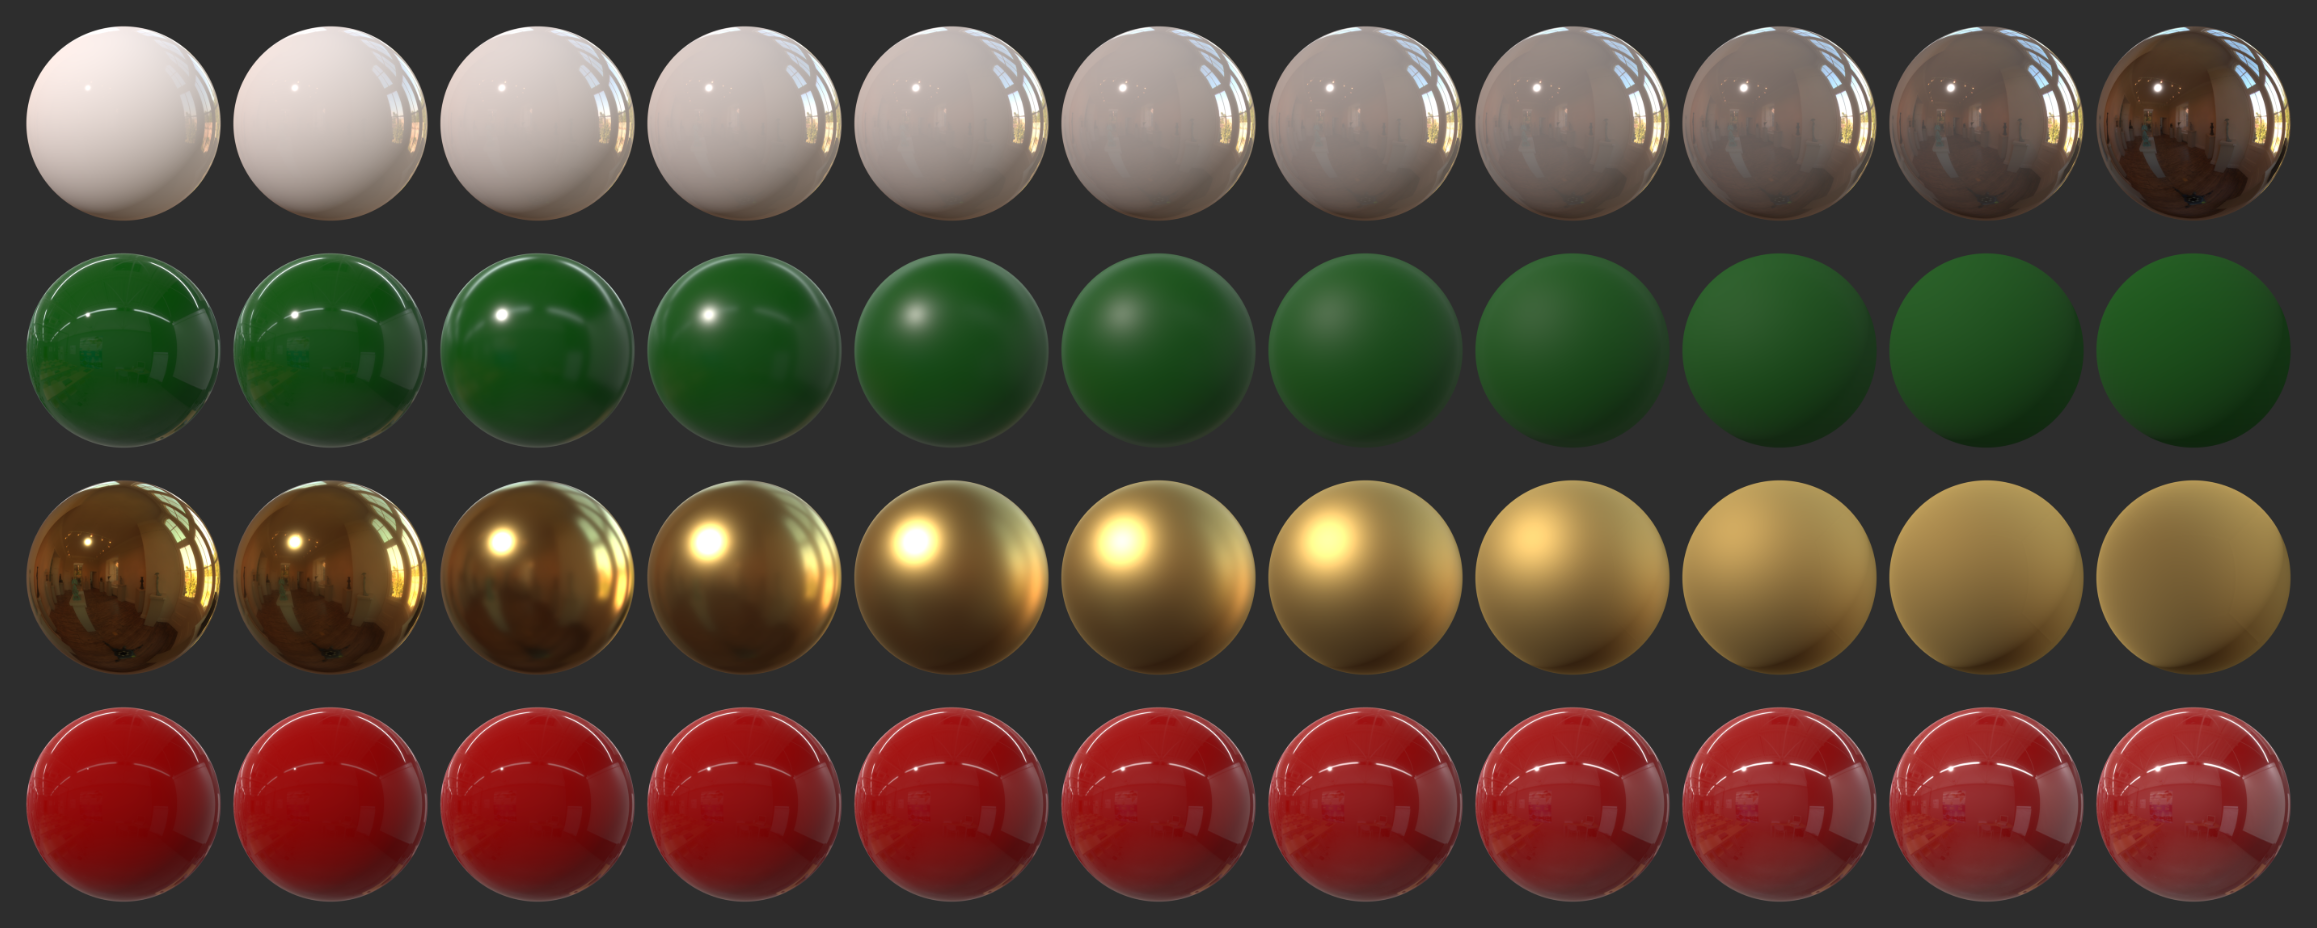
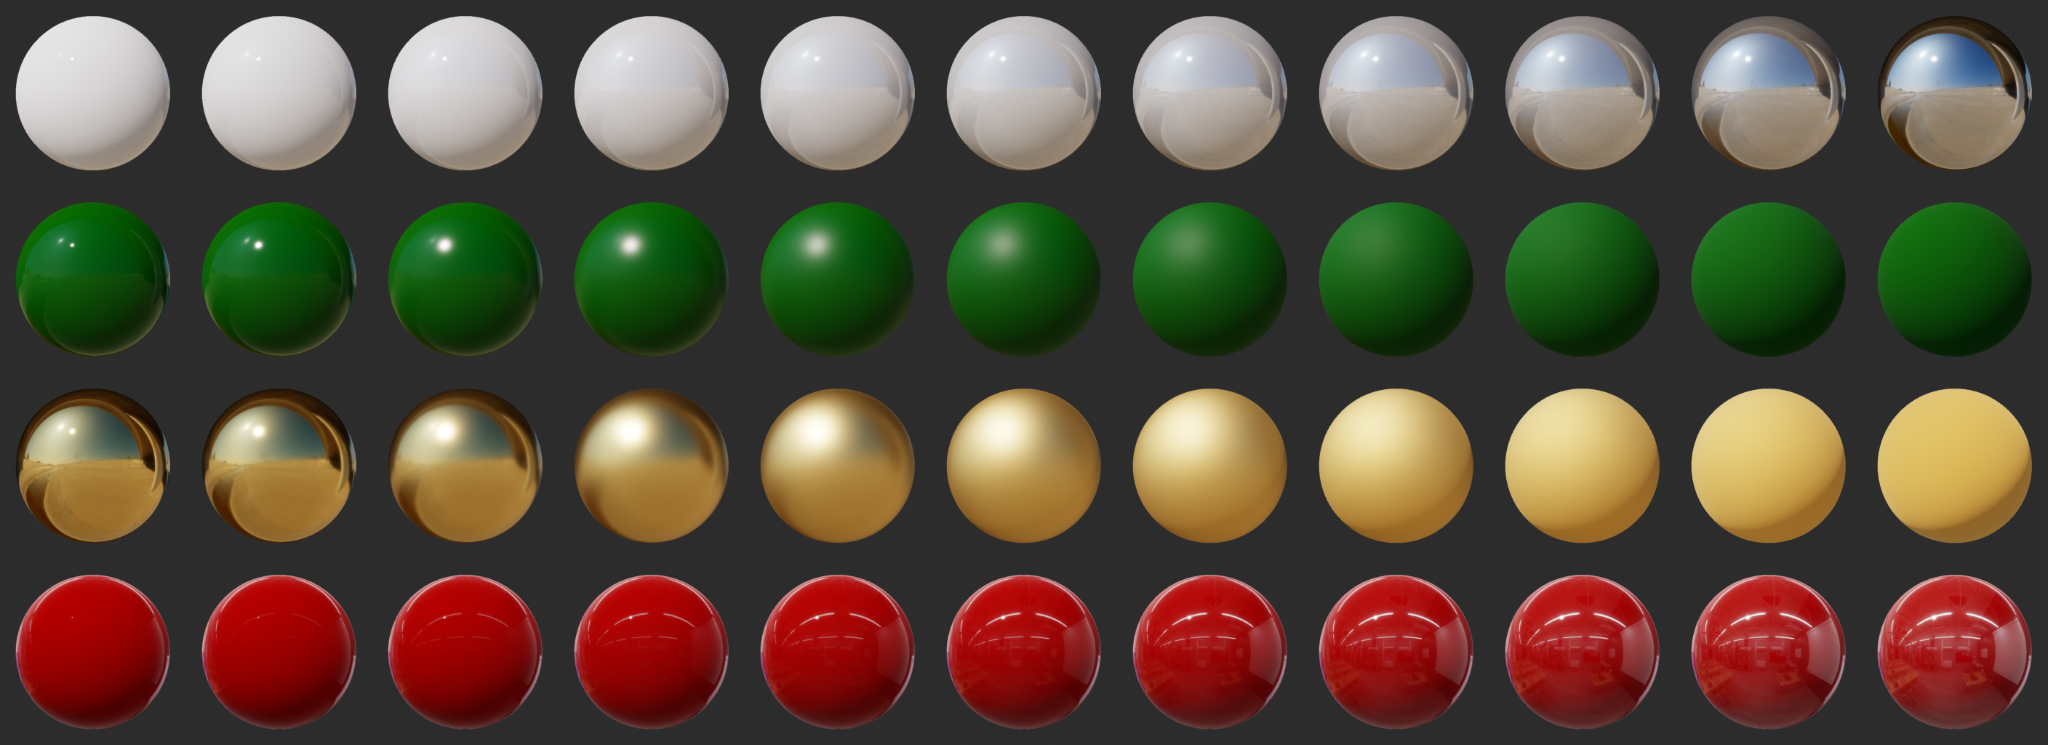
Update images for the documentation

diff --git a/samples/frame_generator.cpp b/samples/frame_generator.cpp
@@ -28,12 +28,14 @@
 #include <utils/Path.h>
 
 #include <filament/driver/PixelBufferDescriptor.h>
+#include <filament/Color.h>
 #include <filament/Engine.h>
 #include <filament/LightManager.h>
 #include <filament/Material.h>
 #include <filament/MaterialInstance.h>
 #include <filament/RenderableManager.h>
 #include <filament/Scene.h>
+#include <filament/Skybox.h>
 #include <filament/TransformManager.h>
 #include <filament/View.h>
 
@@ -69,11 +71,13 @@ static std::vector<char> g_materialBuffer;
 static Path g_materialPath;
 static Path g_paramsPath;
 static bool g_lightOn = false;
+static bool g_skyboxOn = true;
 static int g_materialVariantCount = 1;
 static int g_currentFrame = 0;
 static std::atomic_int g_savedFrames(0);
 static std::vector<Param> g_parameters;
 static std::string g_prefix;
+static uint32_t g_clearColor = 0x000000;
 
 std::unique_ptr<MeshAssimp> g_meshSet;
 static std::map<std::string, MaterialInstance*> g_meshMaterialInstances;
@@ -119,6 +123,10 @@ static void printUsage(char* name) {
             "       Turn on the directional light\n\n"
             "   --prefix=[prefix], -x [prefix]\n"
             "       Prefix of the output files\n\n"
+            "   --skybox-off, -y\n"
+            "       Hide the skybox, showing the clear color\n\n"
+            "   --clear-color=0xRRGGBB, -b 0xRRGGBB\n"
+            "       Set the clear color\n\n"
     );
     const std::string from("SAMPLE_FRAME_GENERATOR");
     for (size_t pos = usage.find(from); pos != std::string::npos; pos = usage.find(from, pos)) {
@@ -128,17 +136,19 @@ static void printUsage(char* name) {
 }
 
 static int handleCommandLineArgments(int argc, char* argv[], Config* config) {
-    static constexpr const char* OPTSTR = "ha:s:li:m:c:p:x:";
+    static constexpr const char* OPTSTR = "ha:s:li:m:c:p:x:yb:";
     static const struct option OPTIONS[] = {
-            { "help",       no_argument,       nullptr, 'h' },
-            { "api",        required_argument, nullptr, 'a' },
-            { "ibl",        required_argument, nullptr, 'i' },
-            { "scale",      required_argument, nullptr, 's' },
-            { "material",   required_argument, nullptr, 'm' },
-            { "params",     required_argument, nullptr, 'p' },
-            { "count",      required_argument, nullptr, 'c' },
-            { "light-on",   no_argument,       nullptr, 'l' },
-            { "prefix",     required_argument, nullptr, 'x' },
+            { "help",        no_argument,       nullptr, 'h' },
+            { "api",         required_argument, nullptr, 'a' },
+            { "ibl",         required_argument, nullptr, 'i' },
+            { "scale",       required_argument, nullptr, 's' },
+            { "material",    required_argument, nullptr, 'm' },
+            { "params",      required_argument, nullptr, 'p' },
+            { "count",       required_argument, nullptr, 'c' },
+            { "light-on",    no_argument,       nullptr, 'l' },
+            { "skybox-off",  no_argument,       nullptr, 'y' },
+            { "prefix",      required_argument, nullptr, 'x' },
+            { "clear-color", required_argument, nullptr, 'b' },
             { nullptr, 0, nullptr, 0 }  // termination of the option list
     };
     int opt;
@@ -171,6 +181,15 @@ static int handleCommandLineArgments(int argc, char* argv[], Config* config) {
                     // keep scale of 1.0
                 }
                 break;
+            case 'b':
+                try {
+                    g_clearColor = (uint32_t) std::stoul(arg, nullptr, 16);
+                } catch (std::invalid_argument& e) {
+                    // keep default color
+                } catch (std::out_of_range& e) {
+                    // keep default color
+                }
+                break;
             case 'm':
                 g_materialPath = arg;
                 break;
@@ -183,6 +202,8 @@ static int handleCommandLineArgments(int argc, char* argv[], Config* config) {
             case 'l':
                 g_lightOn = true;
                 break;
+            case 'y':
+                g_skyboxOn = false;
             case 'c':
                 try {
                     g_materialVariantCount = std::min(std::max(1, std::stoi(arg)), 256);
@@ -251,7 +272,7 @@ static void readParameters() {
     }
 }
 
-static void setup(Engine* engine, View*, Scene* scene) {
+static void setup(Engine* engine, View* view, Scene* scene) {
     g_meshSet = std::make_unique<MeshAssimp>(*engine);
 
     readMaterial(engine);
@@ -300,6 +321,17 @@ static void setup(Engine* engine, View*, Scene* scene) {
     for (const auto& p : g_parameters) {
         g_materialInstance->setParameter(p.name.c_str(), p.start);
     }
+
+    if (!g_skyboxOn) {
+        FilamentApp::get().getIBL()->getSkybox()->setLayerMask(0xff, 0x00);
+    }
+
+    view->setClearColor(Color::toLinear({
+        ((g_clearColor >> 16) & 0xFF) / 255.0f,
+        ((g_clearColor >>  8) & 0xFF) / 255.0f,
+        ((g_clearColor      ) & 0xFF) / 255.0f,
+        1.0f
+    }));
 }
 
 template<typename T>

diff --git a/samples/app/IBL.h b/samples/app/IBL.h
@@ -36,7 +36,7 @@ namespace utils {
 
 class IBL {
 public:
-    IBL(filament::Engine& engine);
+    explicit IBL(filament::Engine& engine);
     ~IBL();
 
     bool loadFromDirectory(const utils::Path& path);
